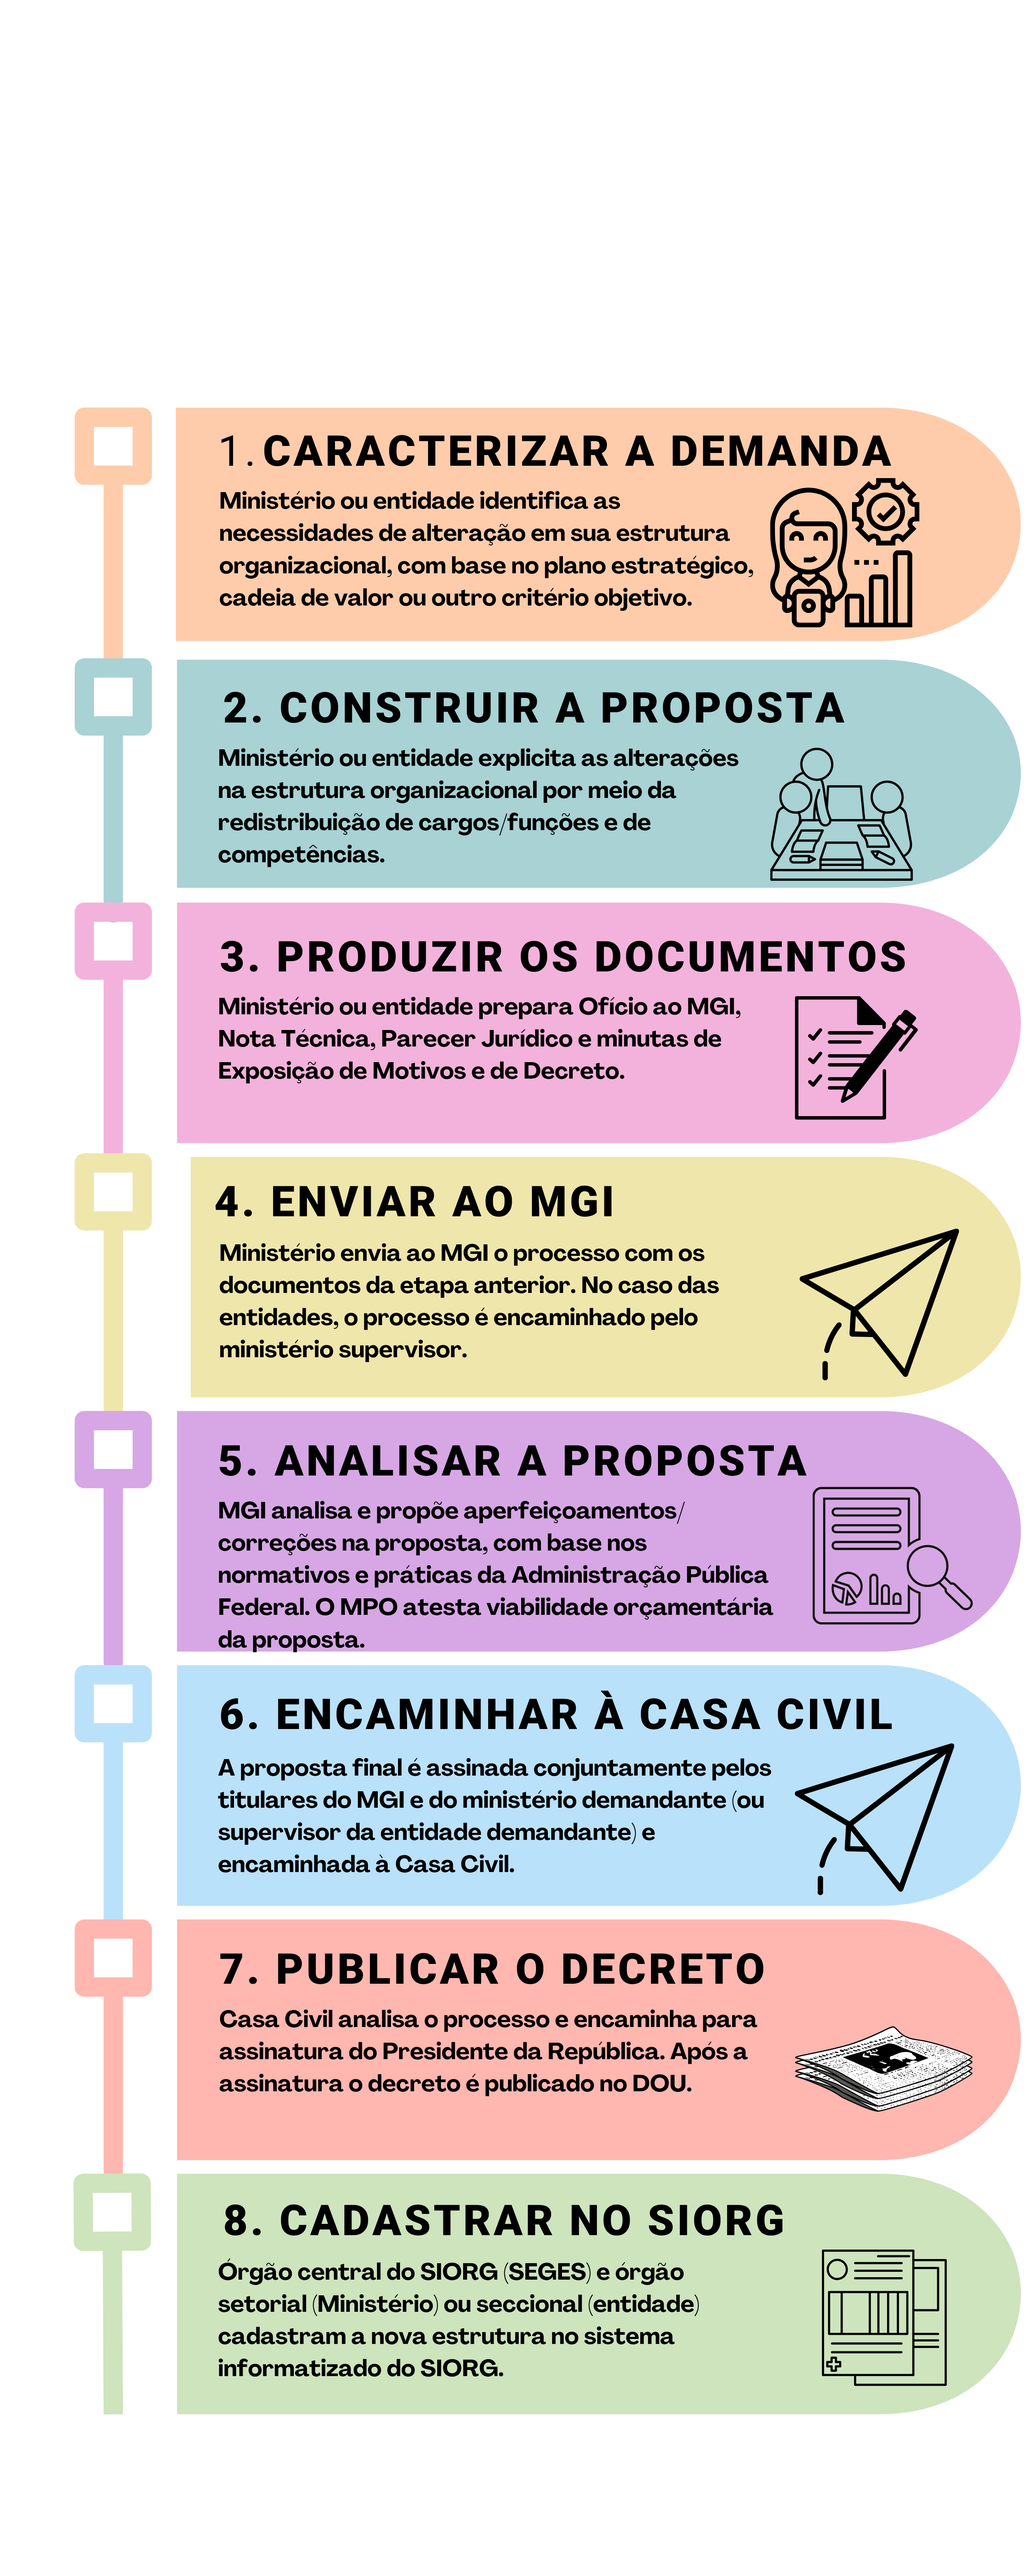
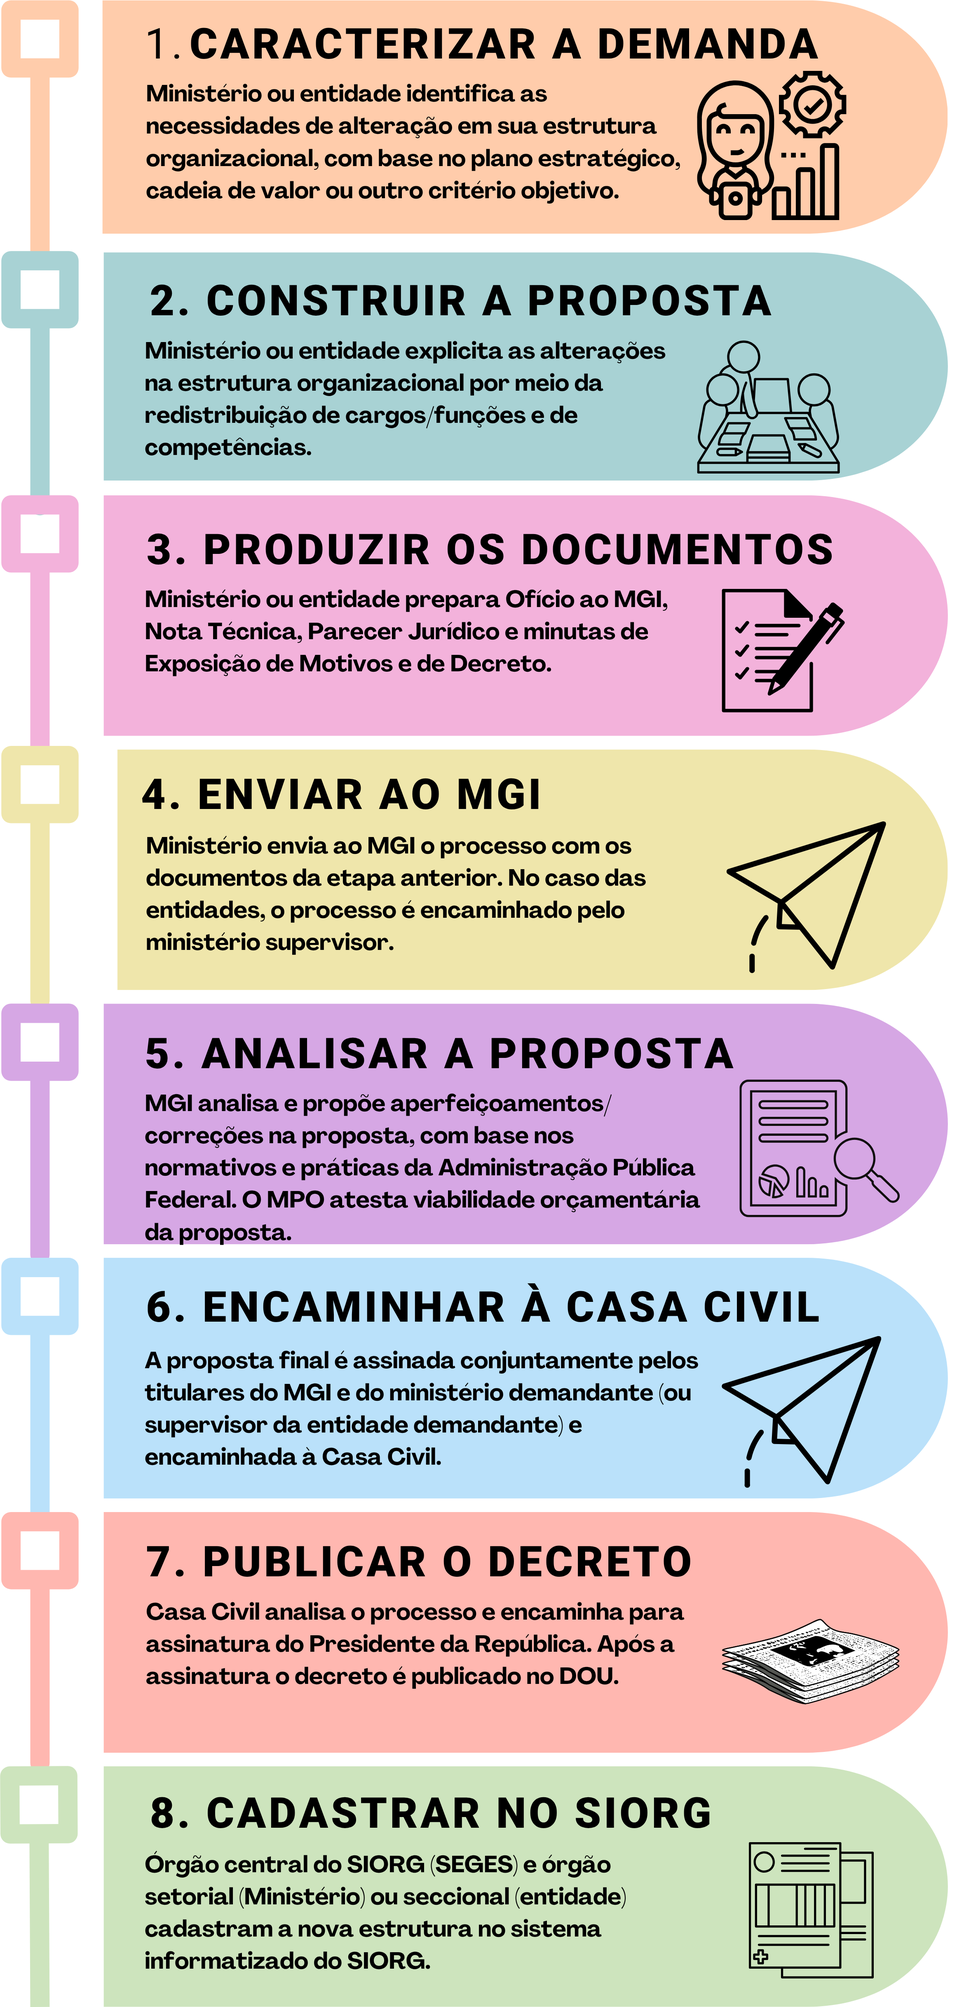
novas figuaras

diff --git a/docs/source/Como_alterar_estrut_regim/Regras gerais.rst b/docs/source/Como_alterar_estrut_regim/Regras gerais.rst
@@ -9,7 +9,7 @@ O fluxo normal de uma reestruturação organizacional de ministério ou entidade
 .. figure:: ../_static/images/fluxo_reestruturacao.png
    :alt: Fluxo de uma reestruturação
    :align: center
-   :scale: 60
+   :scale: 40
    :name: fluxo_reestruturacao
 
    Fluxo de uma reestruturação organizacional

diff --git a/docs/source/Cargos/index.rst b/docs/source/Cargos/index.rst
@@ -337,7 +337,7 @@ A :numref:`Denominacoes-CCE-FCE-label` apresenta as denominações associadas a 
 .. figure:: ../_static/images/Denominacoes_CCE_FCE.png
    :alt: Denominacoes das CCEs e FCEs
    :align: center
-   :scale: 70
+   :scale: 50
    :name: Denominacoes
 
    Denominações dos CCE e das FCE
